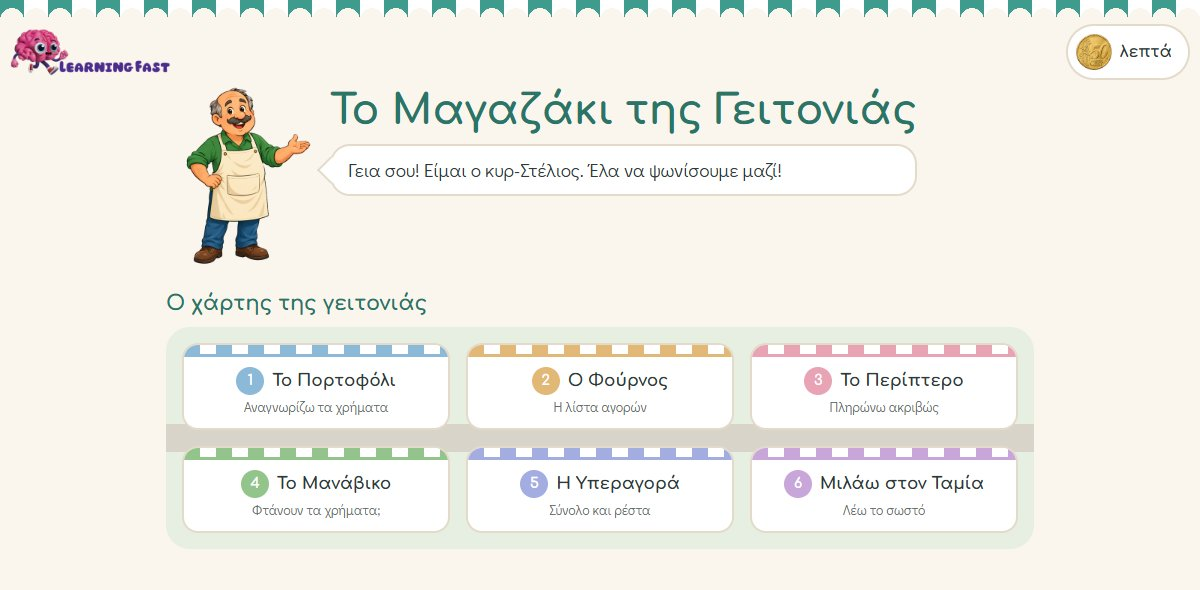
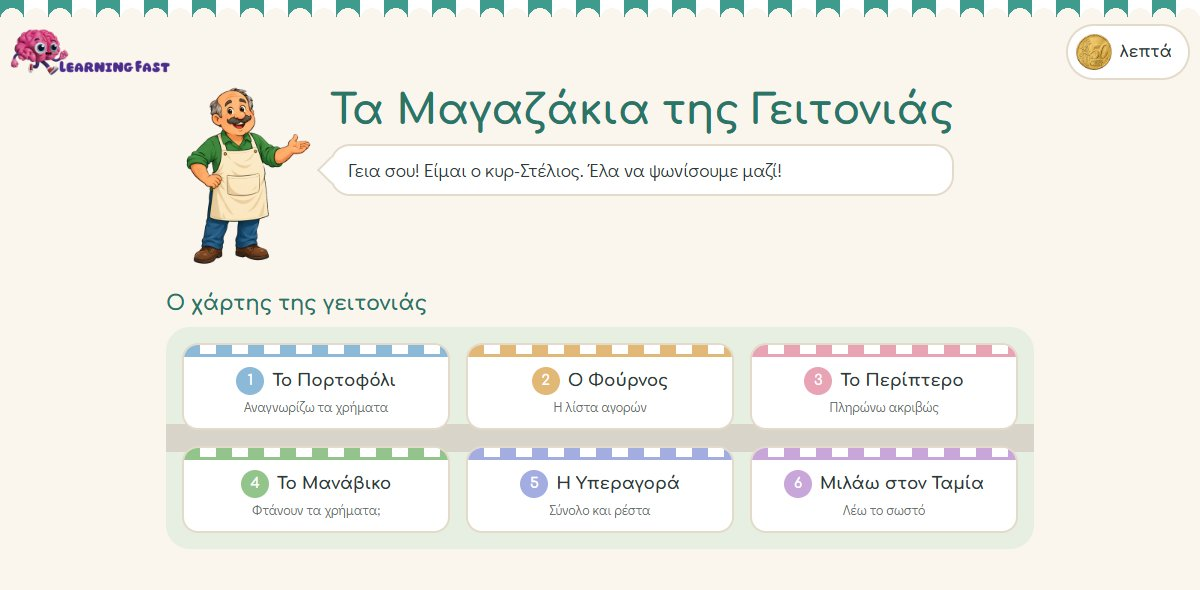
Τα Μαγαζάκια της Γειτονιάς: νέος τίτλος, όλα σε μία οθόνη σε κινητά και tablet
- Ο τίτλος έγινε «Τα Μαγαζάκια της Γειτονιάς» (παιχνίδι, σελίδα, κάρτες, εικόνα).
- Αρχική του παιχνιδιού: όλα τα μαγαζιά φαίνονται χωρίς κύλιση σε κινητά και tablet.
- Οθόνη αποτελεσμάτων: χωρά σε μία οθόνη· σε οριζόντια θέση η αναφορά πάει δίπλα.
- Γύροι: σε κοντές οθόνες η μεσαία περιοχή μικραίνει όσο χρειάζεται αντί να κυλά.

Changed region(s): [[0.3083, 0.1525, 0.8017, 0.2441], [0.74, 0.3051, 0.7708, 0.3356], [0.74, 0.2441, 0.7708, 0.2746]]

diff --git a/eidiki-ekpaideysi/xrimata/paixnidi/css/styles.css b/eidiki-ekpaideysi/xrimata/paixnidi/css/styles.css
@@ -111,8 +111,28 @@ button:focus-visible,a:focus-visible,textarea:focus-visible{outline:3px solid va
 .shop b{font-size:clamp(.98rem,1.4vw,1.1rem)}
 .shop small{font-family:var(--body);color:var(--ink-soft);font-size:.85rem;line-height:1.25}
 .shop .star{position:absolute;top:14px;right:6px;font-size:1.4rem;transform:rotate(12deg);filter:drop-shadow(0 2px 1px rgba(0,0,0,.2))}
-/* phones: one column, so the number stays beside the name and each card is one short row */
-@media (max-width:480px){.map{grid-template-columns:1fr;gap:10px;padding:12px}.shop{padding-bottom:10px}.shop b{font-size:1.1rem}}
+/* phones: two small columns and a smaller hero, so the whole map fits on the screen without scrolling */
+@media (max-width:480px){
+  .map{gap:8px;padding:8px;border-radius:18px}
+  .shop{padding:0 6px 8px;gap:2px;border-radius:14px}.shop .awn{margin:0 -6px 5px;height:10px}
+  .shop .ttl{gap:6px}.shop .num{width:24px;height:24px;font-size:.8rem}
+  .shop b{font-size:.98rem;line-height:1.2}.shop small{font-size:.76rem}
+  .hero{gap:10px;margin-bottom:8px}.hero .stelios{flex-basis:78px}
+  .hero h1{font-size:1.55rem;margin-bottom:6px}.hero .bubble{font-size:.92rem;padding:8px 12px}
+  .maptitle{font-size:1.1rem;margin:8px 0 6px}
+  #home .wrap{padding-bottom:12px}.lf-foot{margin-top:12px}
+}
+/* short landscape screens (tablets with the browser bars, phones on their side): a tighter hero */
+@media (orientation:landscape) and (max-height:640px){
+  .awning{height:14px}
+  .lflogo img{height:38px}.homebar .unitbtn{min-height:40px;padding:3px 12px 3px 5px}.homebar .unitbtn img{width:30px;height:30px}
+  .hero{margin-bottom:6px;align-items:center}.hero .stelios{flex-basis:clamp(64px,13vh,96px)}
+  .hero h1{font-size:clamp(1.5rem,6vh,2.1rem);margin-bottom:4px}.hero .bubble{padding:6px 14px}
+  .maptitle{font-size:1.1rem;margin:6px 0 6px}
+  .map{gap:10px;padding:10px}
+  .shop{padding-bottom:8px}.shop .awn{height:10px;margin-bottom:5px}
+  #home .wrap{padding-bottom:10px}.lf-foot{margin-top:10px}
+}
 .shop .soon{margin-top:4px;font-size:.75rem;background:#EEE9DF;color:var(--ink-soft);border-radius:999px;padding:2px 10px}
 .shop:disabled{opacity:.7}
 .shop:not(:disabled):active{transform:translateY(2px)}
@@ -136,7 +156,7 @@ button:focus-visible,a:focus-visible,textarea:focus-visible{outline:3px solid va
 .instr .bubble b{color:var(--teal-dk);white-space:nowrap}
 /* auto margins centre the content but, unlike align-items:center, never push it out of reach above the top */
 .area{display:flex;padding:8px 14px;min-height:0;overflow:auto}
-.area>*{margin:auto}
+.area>*{margin:auto;zoom:var(--fit,1)}   /* --fit: set by fitArea() in js/engine.js on short screens */
 .tray{background:var(--wood);border-top:4px solid var(--wood-dk);padding:12px 12px calc(12px + env(safe-area-inset-bottom));display:flex;flex-wrap:wrap;gap:12px;align-items:center;justify-content:center}
 .tray.locked>*:not(.next){pointer-events:none}
 .tray.locked .pay{display:none}
@@ -454,6 +474,74 @@ button:focus-visible,a:focus-visible,textarea:focus-visible{outline:3px solid va
 .rlist .how.h3{background:#ECEAE5;color:var(--ink-soft)}
 .rlist small{flex:1 1 100%;color:var(--ink-soft);font-size:.88rem}
 #rextra[hidden]{display:none}
+/* the result screen is exactly one screen high: if the report is long, only its list scrolls, inside its card */
+#result.screen.on{display:flex;flex-direction:column;height:100vh;height:100dvh;min-height:0}
+#result .wrap{flex:1 1 auto;min-height:0;width:100%;display:flex;flex-direction:column;padding-bottom:12px}
+#result .resbox{flex:0 0 auto}
+#result .report{flex:0 1 auto;min-height:0;display:flex;flex-direction:column}
+#result .rlist{flex:1 1 auto;min-height:60px;overflow:auto;overscroll-behavior:contain;align-content:start;padding-right:2px}
+/* landscape: «Μπράβο» and the buttons on the left, the report on the right */
+@media (orientation:landscape) and (min-width:600px){
+  #result .wrap{flex-direction:row;align-items:stretch;gap:14px;max-width:1100px}
+  #result .resbox{flex:0 0 clamp(260px,32%,360px);overflow:auto;align-self:flex-start;max-height:100%}
+  #result .report{flex:1 1 auto;align-self:flex-start;max-height:100%}
+  #result .restop{flex-wrap:wrap}
+  #result .restop .stelios{flex-basis:72px}
+  #result .restop h2{font-size:1.6rem}
+  #result .row .btn{flex:1 1 auto}
+}
+/* short screens: a tighter header and report */
+@media (max-height:620px){
+  #result .wrap{padding-top:8px;padding-bottom:8px}
+  #result .resbox,#result .report{margin-top:6px;padding:12px}
+  #result .restop .stelios{flex-basis:56px}
+  #result .restop h2{font-size:1.4rem}
+  #result .restop p{font-size:.92rem}
+  #result .sticker{font-size:2rem}
+  #result .btn.redo{margin-top:8px}
+  #result .row{margin-top:8px}
+  .report h3{font-size:1rem;margin-bottom:4px}
+  .rdots i{width:16px;height:16px}
+  .rlegend{font-size:.78rem;margin-top:4px}
+  .report #rsum{margin:6px 0 4px;font-size:.92rem}
+  .rlist li{padding:5px 10px}
+}
+/* phones: a compact «Μπράβο»; the dots and their legend repeat what the list says, so they make room for it */
+@media (max-width:560px) and (orientation:portrait),(orientation:landscape) and (max-height:480px){
+  #result .rdots,#result .rlegend{display:none}
+  #result .wrap{padding:8px 10px}
+  #result .resbox,#result .report{margin-top:6px;padding:12px;border-radius:18px}
+  #result .restop{gap:10px}
+  #result .restop .stelios{flex-basis:52px}
+  #result .restop h2{font-size:1.35rem}
+  #result .restop p{font-size:.9rem;margin-top:2px}
+  #result .sticker{font-size:1.8rem}
+  #result .btn.redo{margin-top:8px;min-height:46px;padding:6px 12px}
+  #result .row{margin-top:8px;flex-wrap:nowrap}
+  #result .row .btn{min-height:46px;padding:6px 16px}
+  .report h3{font-size:.98rem;margin-bottom:2px}
+  .report #rsum{margin:4px 0;font-size:.9rem}
+  .rlist li{padding:5px 10px}.rlist .lab{font-size:.92rem}.rlist small{font-size:.82rem}
+}
+@media (orientation:landscape) and (max-height:480px){
+  #result .resbox{flex-basis:clamp(240px,34%,300px)}
+  #result .restop{flex-wrap:nowrap}
+  #result .sticker{display:none}
+}
+/* the smallest screens: Stelios's greeting and the map title give their room to the map */
+@media (orientation:portrait) and (max-height:540px),(orientation:landscape) and (max-height:420px){
+  .hero .bubble,.maptitle{display:none}
+  .hero{align-items:center;margin-bottom:8px}.hero .stelios{flex-basis:56px}
+  .hero h1{font-size:1.4rem;margin:0}
+  .homebar{padding-top:2px}.lflogo img{height:34px}
+}
+@media (orientation:portrait) and (max-height:480px),(orientation:landscape) and (max-height:360px){
+  .awning{height:12px}
+  .map{gap:6px;padding:6px}.shop{padding-bottom:5px}.shop .awn{height:8px;margin-bottom:4px}
+  #result .restop .stelios{display:none}
+}
+/* phones on their side: the line under each shop name gives its room to the map */
+@media (orientation:landscape) and (max-height:360px){.shop small{display:none}.shop .ttl{min-height:34px}}
 .restop{display:flex;align-items:center;gap:14px;position:relative}
 .restop .stelios{flex:0 0 96px}
 .restop h2{font-size:2rem;color:var(--teal-dk)}

diff --git a/eidiki-ekpaideysi/xrimata/paixnidi/index.html b/eidiki-ekpaideysi/xrimata/paixnidi/index.html
@@ -11,20 +11,20 @@
 </script>
 <meta charset="UTF-8">
 <meta name="viewport" content="width=device-width, initial-scale=1, maximum-scale=1">
-<title>Το Μαγαζάκι της Γειτονιάς – Learning Fast</title>
-<meta name="description" content="Το Μαγαζάκι της Γειτονιάς: δωρεάν παιχνίδι λειτουργικών μαθηματικών με ευρώ και κέρματα. Τα παιδιά αναγνωρίζουν χρήματα, πληρώνουν, υπολογίζουν ρέστα και μιλούν στον ταμία. Για το δημοτικό και την ειδική εκπαίδευση.">
+<title>Τα Μαγαζάκια της Γειτονιάς – Learning Fast</title>
+<meta name="description" content="Τα Μαγαζάκια της Γειτονιάς: δωρεάν παιχνίδι λειτουργικών μαθηματικών με ευρώ και κέρματα. Τα παιδιά αναγνωρίζουν χρήματα, πληρώνουν, υπολογίζουν ρέστα και μιλούν στον ταμία. Για το δημοτικό και την ειδική εκπαίδευση.">
 <link rel="canonical" href="https://learning-fast.com/eidiki-ekpaideysi/xrimata/paixnidi/">
 <meta property="og:type" content="website">
 <meta property="og:locale" content="el_GR">
 <meta property="og:site_name" content="Learning Fast">
-<meta property="og:title" content="Το Μαγαζάκι της Γειτονιάς – Learning Fast">
+<meta property="og:title" content="Τα Μαγαζάκια της Γειτονιάς – Learning Fast">
 <meta property="og:description" content="Δωρεάν παιχνίδι με ευρώ και κέρματα: αναγνωρίζω χρήματα, πληρώνω, υπολογίζω ρέστα και μιλάω στον ταμία.">
 <meta property="og:url" content="https://learning-fast.com/eidiki-ekpaideysi/xrimata/paixnidi/">
-<meta property="og:image" content="https://learning-fast.com/assets/images/magazaki.jpg">
+<meta property="og:image" content="https://learning-fast.com/assets/images/magazaki.jpg?v=2">
 <link rel="preconnect" href="https://fonts.googleapis.com">
 <link rel="preconnect" href="https://fonts.gstatic.com" crossorigin>
 <link href="https://fonts.googleapis.com/css2?family=Comfortaa:wght@500;700&family=Didact+Gothic&display=swap" rel="stylesheet">
-<link rel="stylesheet" href="css/styles.css?v=20261116a">
+<link rel="stylesheet" href="css/styles.css?v=20261116b">
 </head>
 <body>
 
@@ -40,7 +40,7 @@
     <div class="hero">
       <div class="stelios" id="hst"></div>
       <div>
-        <h1>Το Μαγαζάκι της Γειτονιάς</h1>
+        <h1>Τα Μαγαζάκια της Γειτονιάς</h1>
         <p class="bubble">Γεια σου! Είμαι ο κυρ-Στέλιος. Έλα να ψωνίσουμε μαζί!</p>
       </div>
     </div>
@@ -131,18 +131,18 @@
 </div>
 
 
-<script src="js/core.js?v=20261116a"></script>
-<script src="js/art.js?v=20261116a"></script>
-<script src="js/data.js?v=20261116a"></script>
-<script src="js/engine.js?v=20261116a"></script>
-<script src="js/games/stage1.js?v=20261116a"></script>
-<script src="js/games/stage2.js?v=20261116a"></script>
-<script src="js/games/stage3.js?v=20261116a"></script>
-<script src="js/games/stage4.js?v=20261116a"></script>
-<script src="js/games/stage5.js?v=20261116a"></script>
-<script src="js/games/stage6.js?v=20261116a"></script>
-<script src="js/report.js?v=20261116a"></script>
-<script src="js/screens.js?v=20261116a"></script>
-<script src="js/app.js?v=20261116a"></script>
+<script src="js/core.js?v=20261116b"></script>
+<script src="js/art.js?v=20261116b"></script>
+<script src="js/data.js?v=20261116b"></script>
+<script src="js/engine.js?v=20261116b"></script>
+<script src="js/games/stage1.js?v=20261116b"></script>
+<script src="js/games/stage2.js?v=20261116b"></script>
+<script src="js/games/stage3.js?v=20261116b"></script>
+<script src="js/games/stage4.js?v=20261116b"></script>
+<script src="js/games/stage5.js?v=20261116b"></script>
+<script src="js/games/stage6.js?v=20261116b"></script>
+<script src="js/report.js?v=20261116b"></script>
+<script src="js/screens.js?v=20261116b"></script>
+<script src="js/app.js?v=20261116b"></script>
 </body>
 </html>

diff --git a/eidiki-ekpaideysi/xrimata/index.html b/eidiki-ekpaideysi/xrimata/index.html
@@ -11,12 +11,12 @@
 </script>
   <meta charset="UTF-8" />
   <meta name="viewport" content="width=device-width, initial-scale=1.0" />
-  <meta name="description" content="Το Μαγαζάκι της Γειτονιάς: δωρεάν παιχνίδι με ευρώ και κέρματα για το δημοτικό και την ειδική εκπαίδευση. Αναγνώριση χρημάτων, λίστα αγορών, πληρωμή, ρέστα και επικοινωνία με τον ταμία." />
-  <title>Το Μαγαζάκι της Γειτονιάς – Μαθαίνω να διαχειρίζομαι τα χρήματα | Learning Fast</title>
+  <meta name="description" content="Τα Μαγαζάκια της Γειτονιάς: δωρεάν παιχνίδι με ευρώ και κέρματα για το δημοτικό και την ειδική εκπαίδευση. Αναγνώριση χρημάτων, λίστα αγορών, πληρωμή, ρέστα και επικοινωνία με τον ταμία." />
+  <title>Τα Μαγαζάκια της Γειτονιάς – Μαθαίνω να διαχειρίζομαι τα χρήματα | Learning Fast</title>
   <link rel="canonical" href="https://learning-fast.com/eidiki-ekpaideysi/xrimata/" />
-  <meta property="og:title" content="Το Μαγαζάκι της Γειτονιάς – Learning Fast" />
+  <meta property="og:title" content="Τα Μαγαζάκια της Γειτονιάς – Learning Fast" />
   <meta property="og:description" content="Μαθαίνω να διαχειρίζομαι τα χρήματα: αγορές, πληρωμή, ρέστα και επικοινωνία με τον ταμία." />
-  <meta property="og:image" content="https://learning-fast.com/assets/images/magazaki.jpg" />
+  <meta property="og:image" content="https://learning-fast.com/assets/images/magazaki.jpg?v=2" />
   <meta property="og:url" content="https://learning-fast.com/eidiki-ekpaideysi/xrimata/" />
   <link rel="stylesheet" href="../../styles/main.css" />
   <style>
@@ -169,7 +169,7 @@
     <section>
       <div class="section__header">
         <span class="section__label">Ειδική Εκπαίδευση · Χρήματα</span>
-        <h1 class="section__title">Το Μαγαζάκι της Γειτονιάς</h1>
+        <h1 class="section__title">Τα Μαγαζάκια της Γειτονιάς</h1>
         <p class="section__subtitle">Μαθαίνω να διαχειρίζομαι τα χρήματα!</p>
       </div>
 
@@ -193,7 +193,7 @@
           <a href="paixnidi/index.html" class="game-detail__play-btn" onclick="gtag('event','play_game',{event_category:'Game',event_label:'Magazaki'})">▶ Παίξε</a>
         </div>
         <a href="paixnidi/index.html" class="game-detail__frame" onclick="gtag('event','play_game',{event_category:'Game',event_label:'Magazaki'})">
-          <img src="../../assets/images/magazaki.jpg" alt="Το Μαγαζάκι της Γειτονιάς – ο κυρ Στέλιος και ο χάρτης της γειτονιάς με τα έξι μαγαζιά" />
+          <img src="../../assets/images/magazaki.jpg?v=2" alt="Τα Μαγαζάκια της Γειτονιάς – ο κυρ Στέλιος και ο χάρτης της γειτονιάς με τα έξι μαγαζιά" />
           <span class="game-detail__play-hint"><span>▶ Παίξε</span></span>
         </a>
       </div>

diff --git a/eidiki-ekpaideysi/xrimata/paixnidi/js/engine.js b/eidiki-ekpaideysi/xrimata/paixnidi/js/engine.js
@@ -30,7 +30,27 @@ function nextRound(){
   $('#area').innerHTML='';const tray=$('#tray');tray.innerHTML='';tray.className='tray';
   renderDots();
   STAGE[G.n].round(G.items[G.round]);
+  fitArea();
 }
+
+/* Short phones (the browser's bars take height): if the round's picture does not fit the middle of the screen,
+   it shrinks there (down to 70%), so nothing needs scrolling. Rechecked whenever the round or Stelios' words change.
+   The talk with the cashier is left alone: its chat scrolls by design. */
+const FIT_MIN=.7;
+function fitArea(){
+  const a=$('#area');
+  a.style.setProperty('--fit','1');
+  if(!G||G.n===6||!$('#play').classList.contains('on'))return;
+  for(let k=0,z=1;k<4&&a.scrollHeight>a.clientHeight+1&&z>FIT_MIN;k++){
+    z=Math.max(FIT_MIN,z*(a.clientHeight-16)/(a.scrollHeight-16));
+    a.style.setProperty('--fit',z.toFixed(3));
+  }
+}
+let fitRaf=0;
+const refit=()=>{cancelAnimationFrame(fitRaf);fitRaf=requestAnimationFrame(fitArea);};
+new MutationObserver(refit).observe($('#area'),{childList:true,subtree:true,attributes:true,attributeFilter:['hidden','class']});
+new MutationObserver(refit).observe($('#bubble'),{childList:true,subtree:true,characterData:true});
+addEventListener('resize',refit);
 /* ten dots for the rounds; a stage in parts shows «Μέρος 1/2» and the dots of the part in progress */
 function renderDots(){
   const d=$('#dots');

diff --git a/ekpaideftika-paixnidia/d-dimotikou/mathimatika/index.html b/ekpaideftika-paixnidia/d-dimotikou/mathimatika/index.html
@@ -85,8 +85,8 @@
       </div>
                         <div class="games-grid">
         <a href="../../../eidiki-ekpaideysi/xrimata/index.html" class="game-card">
-          <div class="game-card__icon"><img src="../../../assets/images/magazaki.jpg" alt="Το Μαγαζάκι της Γειτονιάς" /></div>
-          <div class="game-card__title">Το Μαγαζάκι της Γειτονιάς</div>
+          <div class="game-card__icon"><img src="../../../assets/images/magazaki.jpg?v=2" alt="Τα Μαγαζάκια της Γειτονιάς" /></div>
+          <div class="game-card__title">Τα Μαγαζάκια της Γειτονιάς</div>
           <span class="game-card__btn">Παίξε →</span>
         </a>
         <a href="../../b-dimotikou/mathimatika/xtizo-arithmous/index.html" class="game-card">

diff --git a/ekpaideftika-paixnidia/e-dimotikou/mathimatika/index.html b/ekpaideftika-paixnidia/e-dimotikou/mathimatika/index.html
@@ -85,8 +85,8 @@
       </div>
                         <div class="games-grid">
         <a href="../../../eidiki-ekpaideysi/xrimata/index.html" class="game-card">
-          <div class="game-card__icon"><img src="../../../assets/images/magazaki.jpg" alt="Το Μαγαζάκι της Γειτονιάς" /></div>
-          <div class="game-card__title">Το Μαγαζάκι της Γειτονιάς</div>
+          <div class="game-card__icon"><img src="../../../assets/images/magazaki.jpg?v=2" alt="Τα Μαγαζάκια της Γειτονιάς" /></div>
+          <div class="game-card__title">Τα Μαγαζάκια της Γειτονιάς</div>
           <span class="game-card__btn">Παίξε →</span>
         </a>
         <a href="../../b-dimotikou/mathimatika/xtizo-arithmous/index.html" class="game-card">

diff --git a/ekpaideftika-paixnidia/st-dimotikou/mathimatika/index.html b/ekpaideftika-paixnidia/st-dimotikou/mathimatika/index.html
@@ -85,8 +85,8 @@
       </div>
                         <div class="games-grid">
         <a href="../../../eidiki-ekpaideysi/xrimata/index.html" class="game-card">
-          <div class="game-card__icon"><img src="../../../assets/images/magazaki.jpg" alt="Το Μαγαζάκι της Γειτονιάς" /></div>
-          <div class="game-card__title">Το Μαγαζάκι της Γειτονιάς</div>
+          <div class="game-card__icon"><img src="../../../assets/images/magazaki.jpg?v=2" alt="Τα Μαγαζάκια της Γειτονιάς" /></div>
+          <div class="game-card__title">Τα Μαγαζάκια της Γειτονιάς</div>
           <span class="game-card__btn">Παίξε →</span>
         </a>
         <a href="../../b-dimotikou/mathimatika/xtizo-arithmous/index.html" class="game-card">

diff --git a/ekpaideftika-paixnidia/g-dimotikou/mathimatika/index.html b/ekpaideftika-paixnidia/g-dimotikou/mathimatika/index.html
@@ -77,8 +77,8 @@
   <main>
                       <div class="games-grid">
         <a href="../../../eidiki-ekpaideysi/xrimata/index.html" class="game-card">
-          <div class="game-card__icon"><img src="../../../assets/images/magazaki.jpg" alt="Το Μαγαζάκι της Γειτονιάς" /></div>
-          <div class="game-card__title">Το Μαγαζάκι της Γειτονιάς</div>
+          <div class="game-card__icon"><img src="../../../assets/images/magazaki.jpg?v=2" alt="Τα Μαγαζάκια της Γειτονιάς" /></div>
+          <div class="game-card__title">Τα Μαγαζάκια της Γειτονιάς</div>
           <span class="game-card__btn">Παίξε →</span>
         </a>
         <a href="../../b-dimotikou/mathimatika/xtizo-arithmous/index.html" class="game-card">

diff --git a/index.html b/index.html
@@ -277,9 +277,9 @@
       </div>
       <div class="games-grid">
         <a href="eidiki-ekpaideysi/xrimata/index.html" class="game-card">
-          <div class="game-card__image"><img src="assets/images/magazaki.jpg" alt="Το Μαγαζάκι της Γειτονιάς" /></div>
+          <div class="game-card__image"><img src="assets/images/magazaki.jpg?v=2" alt="Τα Μαγαζάκια της Γειτονιάς" /></div>
           <div class="game-card__body">
-            <div class="game-card__title">Το Μαγαζάκι της Γειτονιάς</div>
+            <div class="game-card__title">Τα Μαγαζάκια της Γειτονιάς</div>
             <span class="game-card__tag">Ειδική Εκπαίδευση · Α΄ – ΣΤ΄ Δημοτικού</span>
           </div>
         </a>

diff --git a/ekpaideftika-paixnidia/a-dimotikou/mathimatika/index.html b/ekpaideftika-paixnidia/a-dimotikou/mathimatika/index.html
@@ -87,8 +87,8 @@
       </div>
       <div class="games-grid">
         <a href="../../../eidiki-ekpaideysi/xrimata/index.html" class="game-card">
-          <div class="game-card__icon"><img src="../../../assets/images/magazaki.jpg" alt="Το Μαγαζάκι της Γειτονιάς" /></div>
-          <div class="game-card__title">Το Μαγαζάκι της Γειτονιάς</div>
+          <div class="game-card__icon"><img src="../../../assets/images/magazaki.jpg?v=2" alt="Τα Μαγαζάκια της Γειτονιάς" /></div>
+          <div class="game-card__title">Τα Μαγαζάκια της Γειτονιάς</div>
           <span class="game-card__btn">Παίξε →</span>
         </a>
         <a href="pollaplasiasmoiAdimotikou/index.html" class="game-card">

diff --git a/ekpaideftika-paixnidia/b-dimotikou/mathimatika/index.html b/ekpaideftika-paixnidia/b-dimotikou/mathimatika/index.html
@@ -87,8 +87,8 @@
       </div>
       <div class="games-grid">
         <a href="../../../eidiki-ekpaideysi/xrimata/index.html" class="game-card">
-          <div class="game-card__icon"><img src="../../../assets/images/magazaki.jpg" alt="Το Μαγαζάκι της Γειτονιάς" /></div>
-          <div class="game-card__title">Το Μαγαζάκι της Γειτονιάς</div>
+          <div class="game-card__icon"><img src="../../../assets/images/magazaki.jpg?v=2" alt="Τα Μαγαζάκια της Γειτονιάς" /></div>
+          <div class="game-card__title">Τα Μαγαζάκια της Γειτονιάς</div>
           <span class="game-card__btn">Παίξε →</span>
         </a>
         <a href="xtizo-arithmous/index.html" class="game-card">
